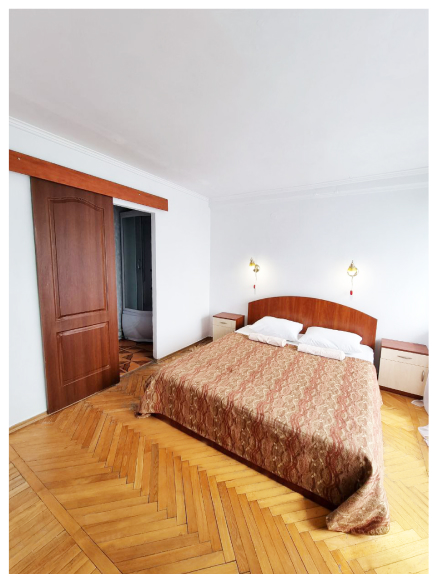
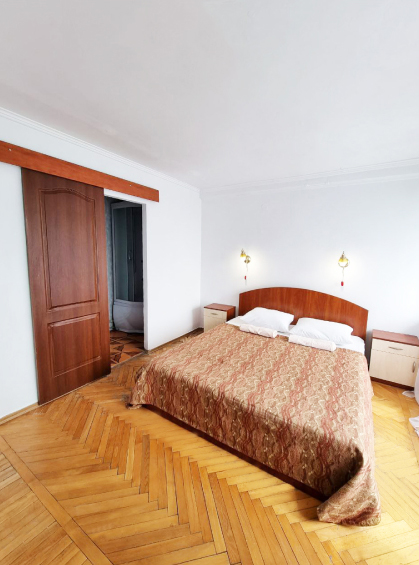
add

diff --git a/index.html b/index.html
@@ -253,20 +253,21 @@
                     <div class="tabs__content tabs__content--active" data-tabs-target="1">
                         <div class="tabs-wrapper">
                             <img src="img/number1.jpg" alt="">
-                            <p class="number__descr">Есть дополнительные спальные места с диваном</p>
+                            <span class="number__descr">Есть дополнительные спальные места с диваном</span>
                         </div>
                         <div class="tabs-wrapper ">
                             <img src="img/number2.jpg" alt="">
-                            <p class="number__descr">Есть дополнительные спальные места с диваном</p>
-                           
+                            <span class="number__descr">Есть дополнительные спальные места с диваном, Есть
+                                дополнительные спальные места с диваном</span>
+
                         </div>
-                        
-                        
+
+
                     </div>
                     <div class="tabs__content" data-tabs-target="2">
                         <div class="tabs-wrapper">
                             <img src="img/number2.jpg" alt="">
-                            <p class="number__descr">Есть дополнительные спальные места с диваном</p>
+                            <p class="number__descr">Есть дополнительные спальные места с диваном </p>
                         </div>
                         <div class="tabs-wrapper">
                             <img src="img/number1.jpg" alt="">
@@ -279,8 +280,19 @@
                 </div>
             </div>
         </section>
-        <section class="proba">
-            <div class="container proba__container"></div>
+        <section class="restoran">
+            <div class="container restoran__container">
+                <div class="restoran__left">
+                    <h2 class="restoran__title">Ресторан</h2>
+                    <p class="restoran__descr">
+                        В отеле действует система “Полный пансионат”.
+                        Завтрак, обед и ужин включены в стоимость.
+                    </p>
+                </div>
+                <div class="restoran__right">
+
+                </div>
+            </div>
         </section>
     </main>
     <!-- /.main -->

diff --git a/css/style.css b/css/style.css
@@ -53,7 +53,6 @@ nav {
 
 body {
     background-color: var(--white);
-    
 }
 
 html {
@@ -389,11 +388,20 @@ input, textarea, button, label {
 }
 
 .tabs-wrapper {
+    display: flex;
+    flex-direction: column;
     margin-right: 50px;
     padding: 20px;
-    height: 100%;
+    max-width: 613px;
     background-color: #fff;
-    box-shadow: 0px 3.74999px 41.2499px rgba(0, 0, 0, 0.1);
+    box-shadow: 0px 3.74999px 41.2499px rgb(0 0 0 / 10%);
+}
+
+.tabs-wrapper>img {
+    max-height: 560px;
+    min-height: 560px;
+    margin-bottom: 25px;
+    object-fit: cover;
 }
 
 .tabs-wrapper-none {
@@ -489,9 +497,11 @@ input, textarea, button, label {
 }
 
 .number {
-    padding: 100px 0;
+    padding: 150px 0;
+    padding-bottom: 260px;
     position: relative;
     overflow: hidden;
+    box-shadow: 0px 4px 45px rgb(33 101 114 / 20%);
 }
 
 .number__container {
@@ -557,10 +567,46 @@ input, textarea, button, label {
 
 .number__descr {
     font-size: 20.6249px;
-    line-height: 112%;
+    line-height: 30px;
     color: #000000;
 }
 
-.proba {
+.restoran {
     padding: 150px 0;
+    position: relative;
+}
+
+.restoran__container {
+    display: flex;
+    align-items: center;
+}
+
+.restoran__left {
+    width: 30%;
+}
+
+.restoran__right {
+    position: absolute;
+    right: 0;
+    top: 0;
+    width: 45%;
+    background-image: url('../img/blue-fon.png');
+    background-position: center;
+    background-repeat: no-repeat;
+    background-size: cover;
+    height: 100%;
+}
+
+.restoran__title {
+    font-weight: bold;
+    font-size: 50px;
+    color: #80DBFF;
+    margin-bottom: 25px;
+}
+
+.restoran__descr {
+    font-weight: normal;
+    font-size: 18px;
+    line-height: 140%;
+    color: #6A6A6A;
 }
